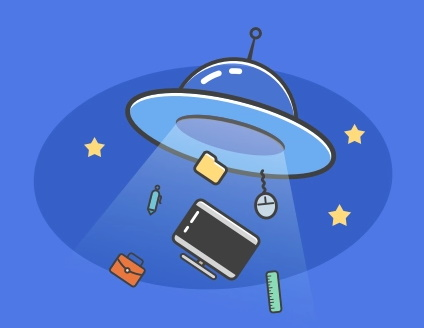
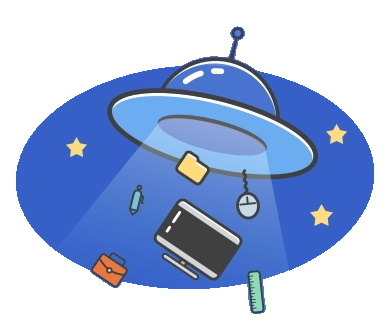
image update plus added REAME

diff --git a/index.html b/index.html
@@ -11,11 +11,14 @@
 <body style="background-color: blue">
     <main style="display: inline-block; width: 50%; margin-top: 170px; margin-left: 25%;">
         <div style="width: 35%; float: left; margin-top: 100px;">
-            <h1 style="color: white; font-size: 80px; margin: 0;">404</h1>
-            <p style="color: white; text-transform: uppercase; font-size: 30px; margin: 0; margin-bottom: 20px;">Page not found</p>
-        <a href="#" style="color: white;">go to home</a>
+
+            <h1 style="color: white; font-size: 80px; margin: 0; font-family: fantasy;">404</h1>
+
+            <p style="color: white; text-transform: uppercase; font-size: 36px; margin: 0; margin-bottom: 20px; font-family: fantasy;">Page not found</p>
+       
+            <a href="#" style="color: white; text-decoration: none; font: size 17px; font-family: Arial; border: 1px solid white; padding: 10px;">go to home</a>
     </div>
-    <img style="width: 60%; float: right;" src="./img/ufo.jpg" alt="UFO lekste">
+    <img style="width: 60%; float: right;" src="./img/ufo.webp" alt="UFO lekste">
 </main>
 </body>
 

diff --git a/README.md b/README.md
@@ -1,19 +1,78 @@
-# 02UFO
-## 02UFO
-### 02UFO
-#### 02UFO
-##### 02UFO
-###### 02UFO
-Simple design, learning HTML and CSS
+![LICENSE](https://img.shields.io/badge/license-MIT-blue.svg?style=flat-square)
+![Security Status](https://img.shields.io/security-headers?label=Security&url=https%3A%2F%2Fgithub.com&style=flat-square)
+![Gluten Status](https://img.shields.io/badge/Gluten-Free-green.svg)
+![Eco Status](https://img.shields.io/badge/ECO-Friendly-green.svg)
+[![Discord](https://discord.com/api/guilds/571393319201144843/widget.png)](https://discord.gg/dRwW4rw)
 
-- labas
-- rytas
-- lietuva
+# UFO
 
-siandien reikia padaryti
-- [x] reikia
-- [] padaryti
-- [] sita
-- [] darba
+_website design project_
 
-Daugiau informacijos [wikipedijoje] (https://lt.wikipedia.org/wiki/Pagrindinis_puslapis).
+<br>
+
+## 🌟 About
+
+This project is for educational porpuses only. Pull request are welcome, but priority for project authors! Thank you for your cooperation!
+
+Site published at: https://modestasci.github.io/02-ufo/
+
+Design: [UFO](./img/design.png)
+
+## 🎯 Project features/goals
+
+-   Github pages
+-   basic [HTML (structure)](https://www.w3schools.com/TAGS/default.asp) and CSS (style)
+-   [markdown](https://docs.github.com/en/get-started/writing-on-github/getting-started-with-writing-and-formatting-on-github/basic-writing-and-formatting-syntax)
+
+## 🧰 Getting Started
+
+### 💻 Prerequisites
+
+Node.js - _download and install_
+
+```
+https://nodejs.org
+```
+
+Git - _download and install_
+
+```
+https://git-scm.com
+```
+
+### 🏃 Run locally
+
+Would like to run this project locally? Open terminal and follow these steps:
+
+1. Clone the repo
+    ```sh
+    git clone https://github.com/modestasci/02-ufo.git
+    ```
+2. Install NPM packages
+    ```sh
+    npm i
+    ```
+    or
+    ```sh
+    npm install
+    ```
+3. Run the server
+    ```sh
+    npm run dev
+    ```
+
+### 🧪 Running tests
+
+There is no tests for this project.
+
+## 🎅 Authors
+
+Modestas: [Github](https://github.com/ModestasCi), [Linkedin](www.linkedin.com/in/modestasciunka)
+
+## ⚠ License
+
+Distributed under the ISC License. See LICENSE.txt for more information.
+
+## 🔗 Other resources
+
+No other resouces.
